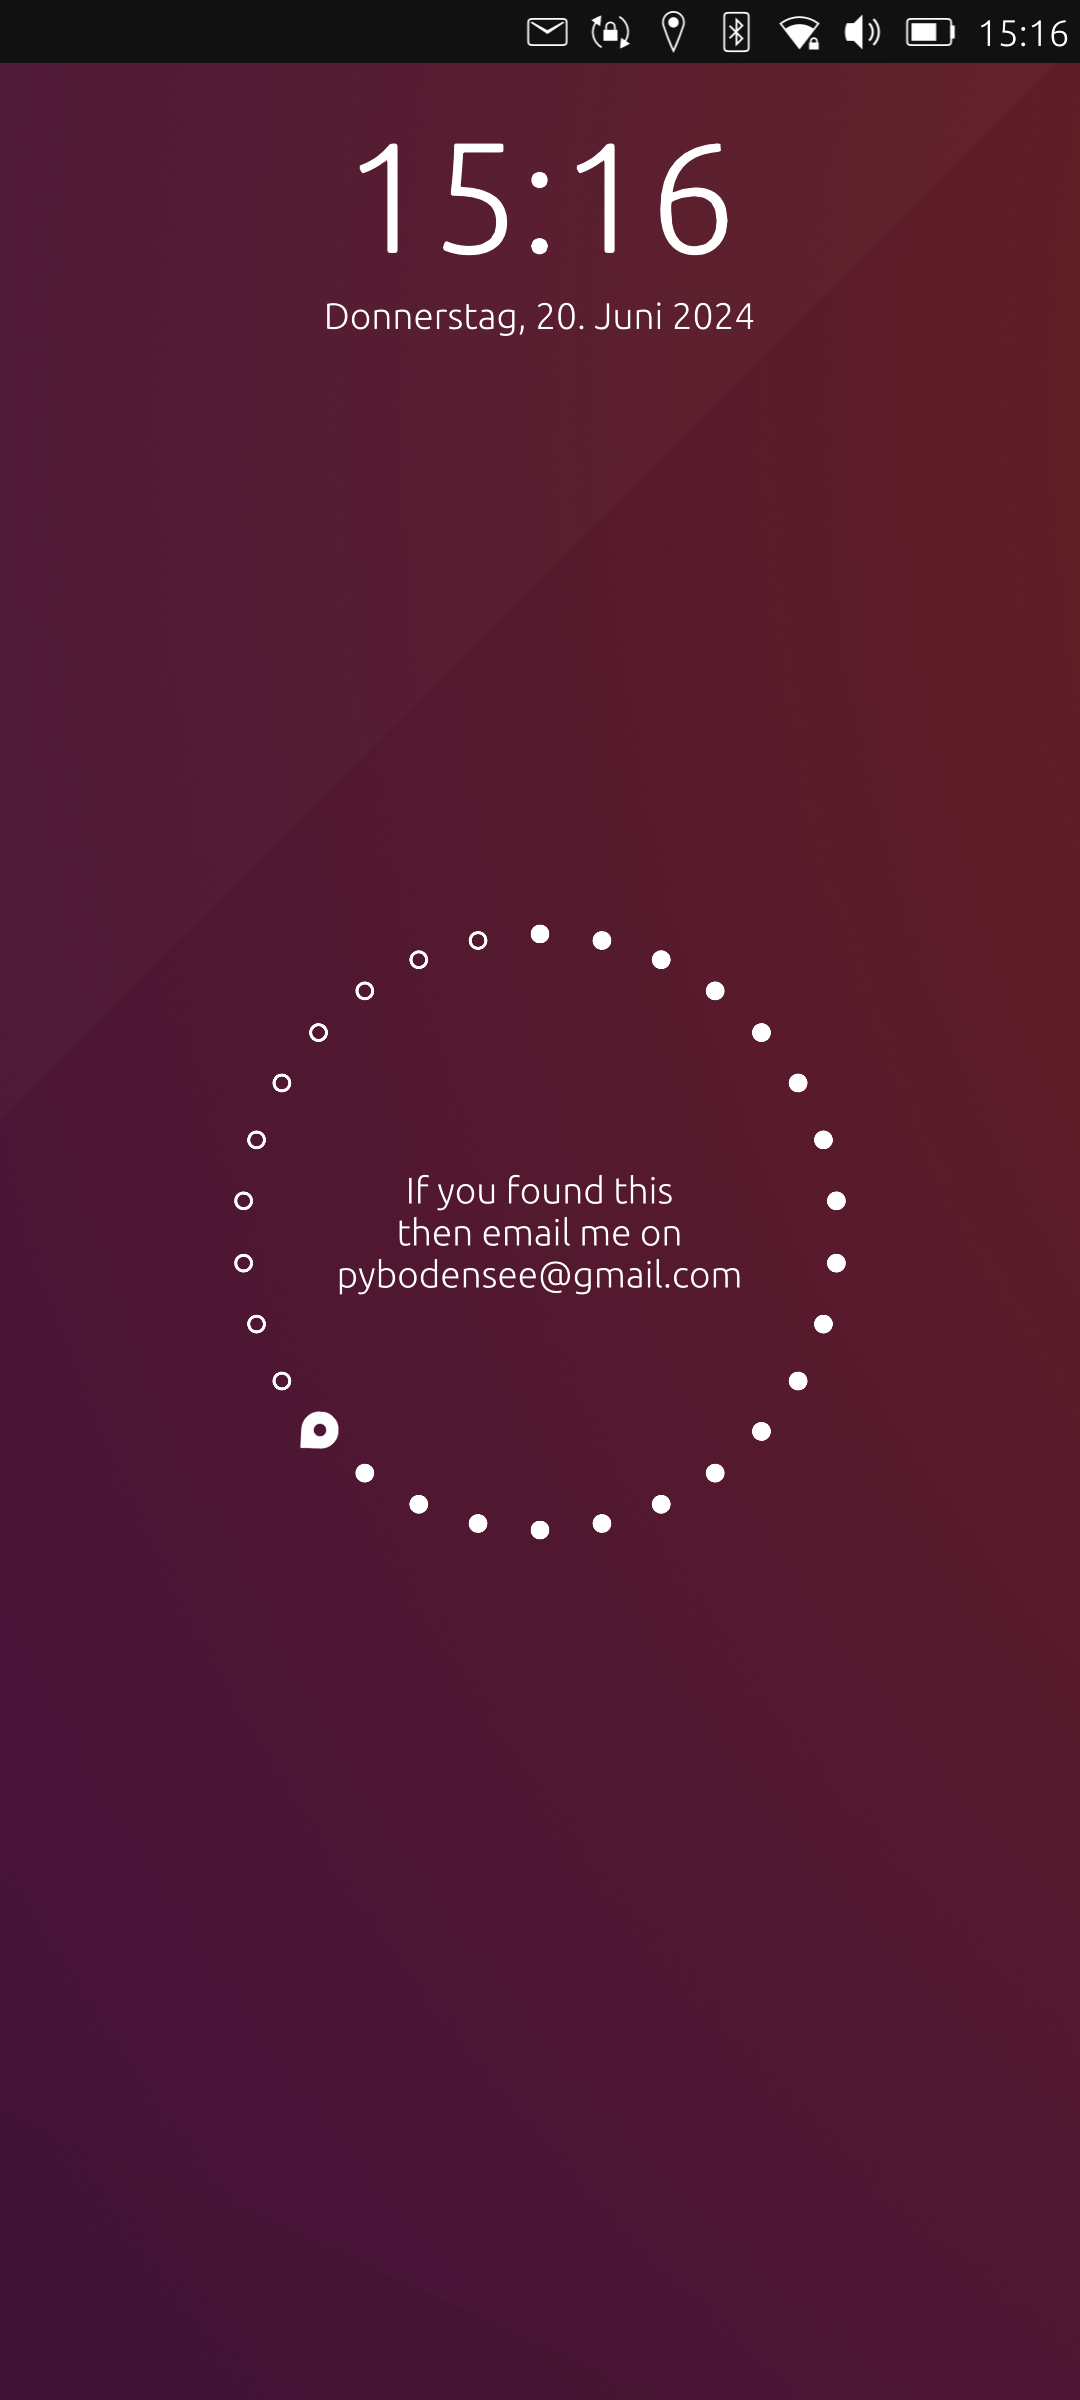
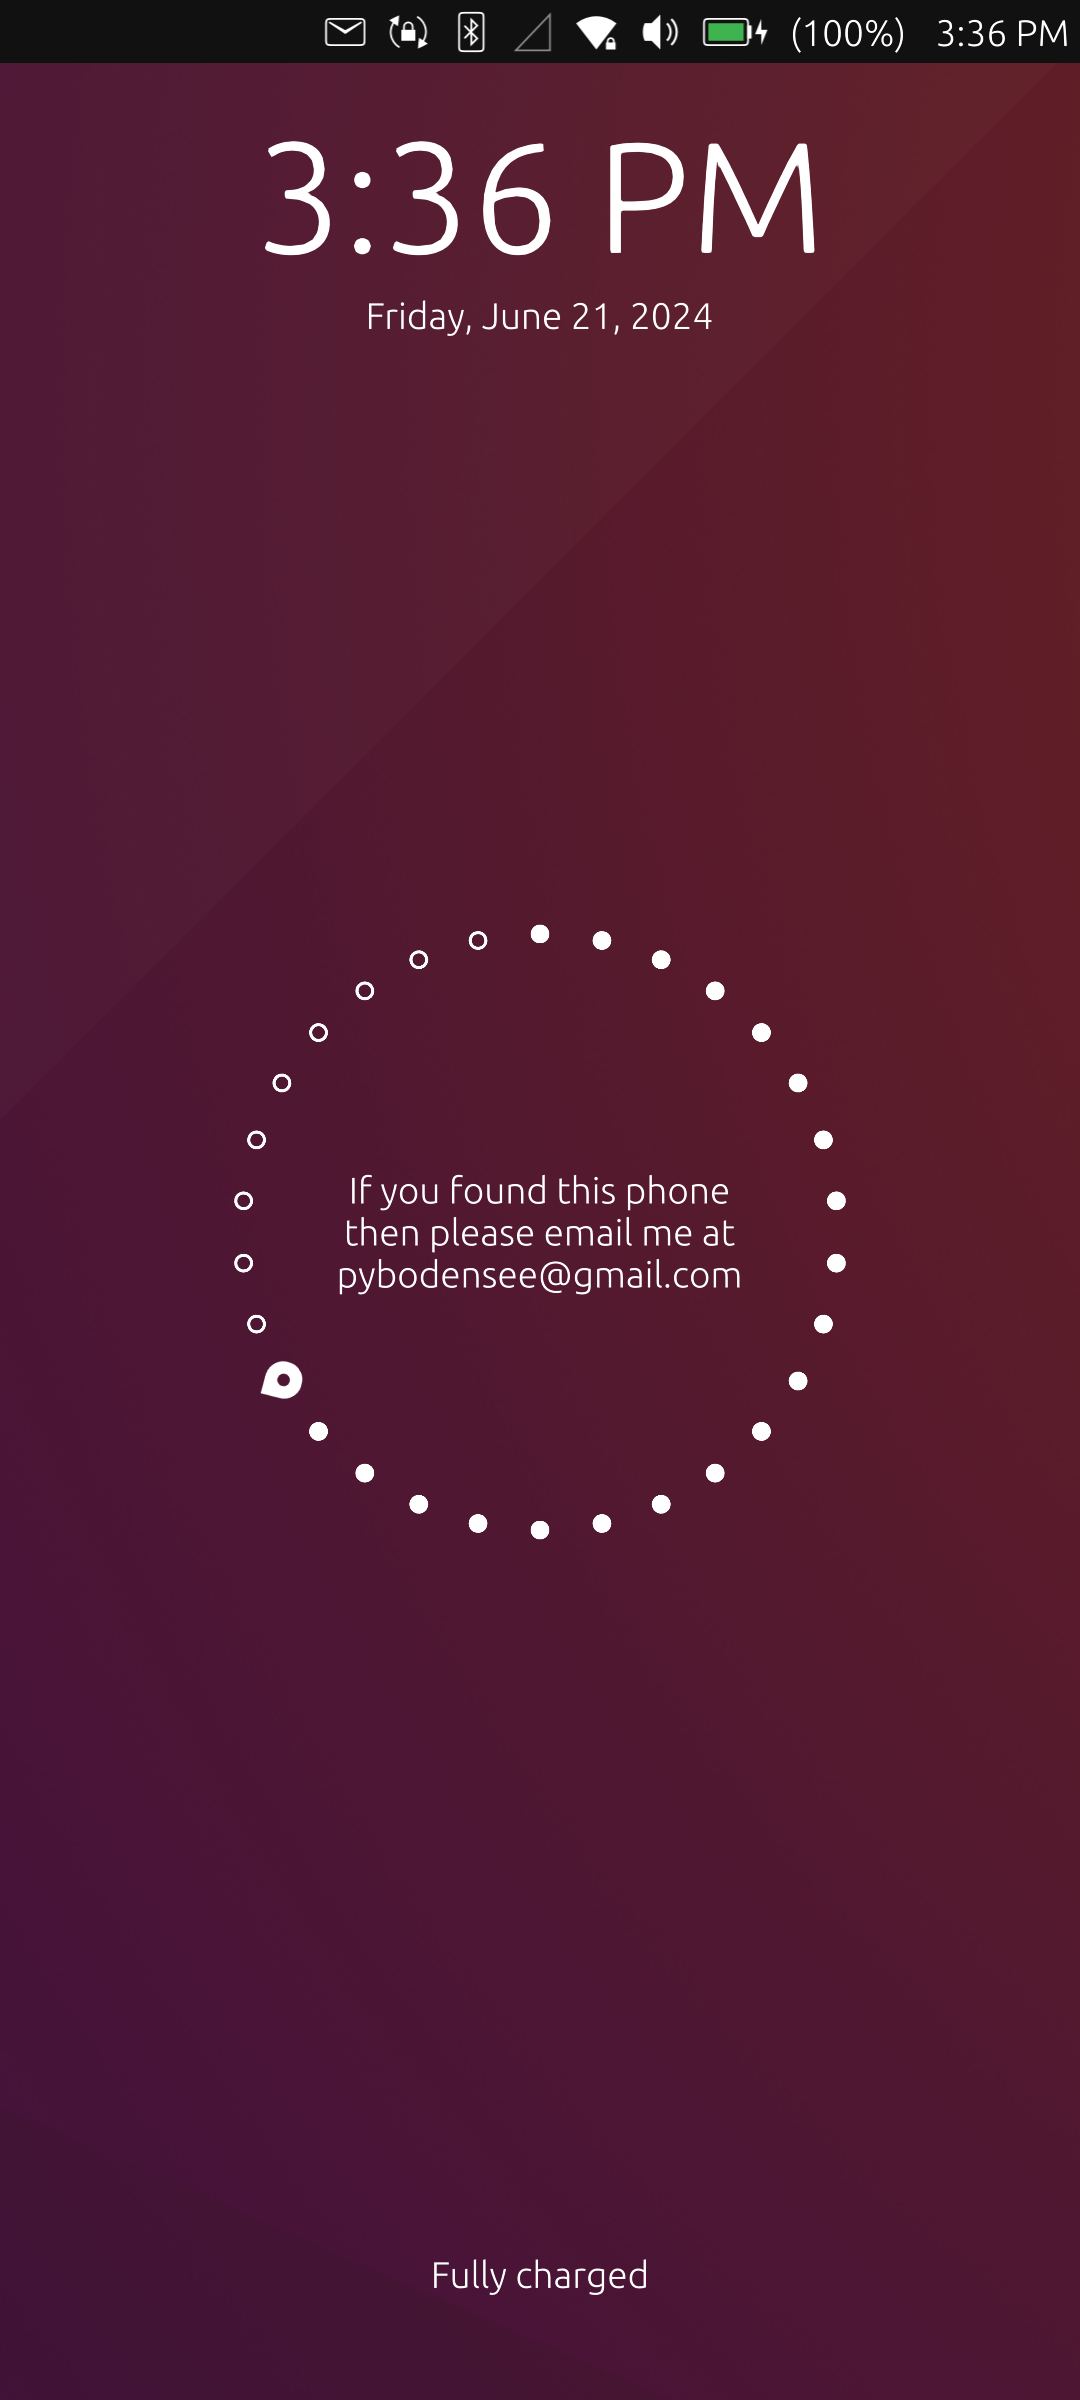
update readme and images

diff --git a/README.md b/README.md
@@ -1,10 +1,22 @@
 # Lock Message
 
-[![OpenStore](https://open-store.io/badges/en_US.png)](https://open-store.io/app/lock-message.pybodensee)
+<p dir="auto"><img src="assets/lock-message.png" width="56"><a href="https://open-store.io/app/lock-message.pybodensee"><img src="https://open-store.io/badges/en_US.png" alt="OpenStore" /></a></p>
 
-`Lock Message` is a fork of unmaintained `Circle Messsage` app on Ubunut Touch Open Store. `Lock Message` is an attempt to revive the app. See `git log` of the GitHub repository to get an idea of all the changes.
+`Lock Message` is a fork of unmaintained `Circle Messsage` app on Ubunut Touch Open Store. `Lock Message` is an attempt to revive the app. 
 
 This app will *Add your message to the lock screen*. You can add any message that can be useful to display on a locked screen. Here are some of the use-cases.
+
+We have heavly edited the original version and modified GUI interface. See `git log` of the GitHub repository to get an idea of all the changes.
+
+## How to Use?
+
+Install the app from the App Store by following the download link. You will see a circular button with a `+` button in it. Click on it and then add your custom lock message. as shown in the images below. 
+
+Then click on the green color tick button to add the text. Your custom lock message will be added to the lock screen.
+
+Now check the lock screen of your Ubuntu Phone. You should see your custom lock message there. If you do not see it there, then there may be a display conflict with other user metrics.
+
+To clear the other metrics, please restart your mobile phone to clear those metrics. After restart, you should see the custom message on the lock screen circle.
 
 ## Tests
 
@@ -12,7 +24,22 @@ This app will *Add your message to the lock screen*. You can add any message tha
 
 This app helps you write a message that will appear inside Circle on the lock screen. This feature can be useful as you can add custom messages to your UT lock screens.
 
-![PySensors Running on Xiaomi Redmi Pro 9 with Ubunut Touch/Liomiri ](assets/composit.png)
+![Lock Message Running on Xiaomi Redmi Pro 9 with Ubunut Touch/Liomiri ](assets/composit.png)
+
+## Trouble Shootings
+
+**Question 1: Custom Lock Message is not showing  up on the lcok screen/circl?**
+
+Answer: If your custom message doesn't show up on the locked screen, then please restart your Phone after removing the SIM card.
+
+**Question 2: What happens if you restart Ubunut Touch without SIM Card?**
+
+Answer: Restarting without SIM card will reset the usermetric sequences and Lock Message sequence will be shown afterwards.
+
+**Question 3: Have you noticed unexpected behaviour?**
+
+Please contact me with any issues before leaving negative review and I will try to fix them. Help me to improve this important feature.
+
 
 ## Use Cases
 
